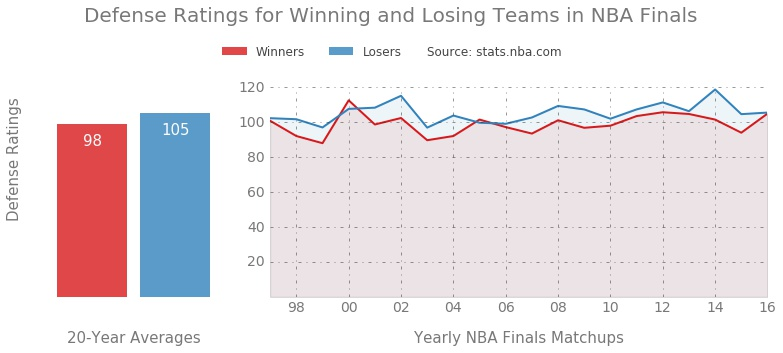
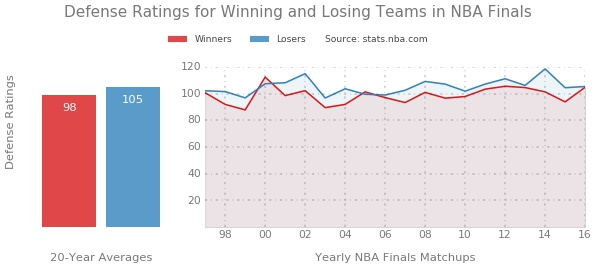
Adjust image size

diff --git a/plot.py b/plot.py
@@ -3,6 +3,12 @@
 Created on Tue Mar 28 18:51:58 2017
 
 @author: pdriscoll
+
+NOTES: 
+--All files, including two csv files and two Python scripts used to scrape the data, can be found at:
+  https://github.com/ptdriscoll/nba-defense-ratings 
+--All Python files for this application are written in Python 2.7  
+
 """
 
 import pandas as pd
@@ -183,7 +189,7 @@ print results
 '''
 
 plt.tight_layout()
-plt.savefig('nba_defense.jpg', dpi=72,
+plt.savefig('nba_defense.jpg', dpi=55,
             bbox_inches='tight', bbox_extra_artist=[title]) 
 plt.show()
 
